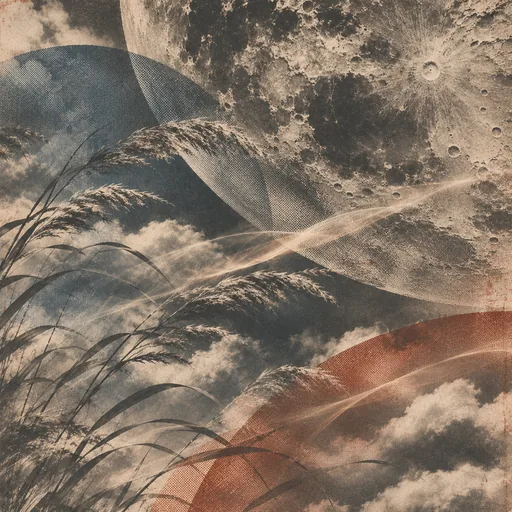
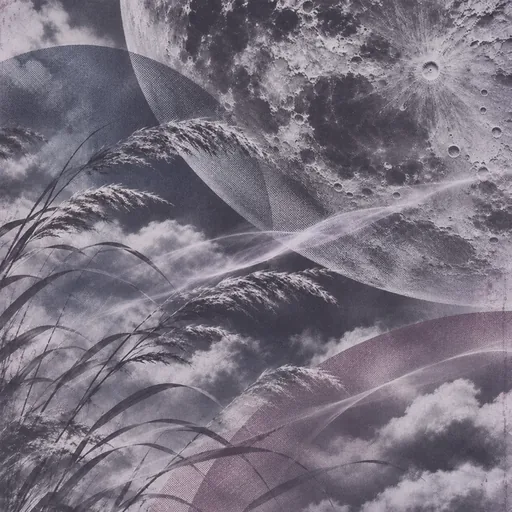
Vary palettes of five archival cover prints

diff --git a/music_analysis/web/index.html b/music_analysis/web/index.html
@@ -8,7 +8,7 @@
   <link rel="preload" href="/assets/InterVariable.woff2" as="font" type="font/woff2" crossorigin>
   <link rel="stylesheet" href="/assets/styles.css?v=cover-collection-17">
   <script src="/assets/i18n.js?v=culture-aesthetics-2" defer></script>
-  <script src="/assets/app.js?v=cover-collection-17" defer></script>
+  <script src="/assets/app.js?v=cover-palettes-2" defer></script>
 </head>
 <body>
   <header class="topbar">

diff --git a/music_analysis/web/app.js b/music_analysis/web/app.js
@@ -108,7 +108,7 @@ function sleeveIndex(id) {
 function sleeve(index) {
   const art = element("span", "", "sleeve");
   art.dataset.sleeve = index;
-  art.style.backgroundImage = `url("/assets/sleeves/${sleeveArt[index]}.webp")`;
+  art.style.backgroundImage = `url("/assets/sleeves/${sleeveArt[index]}.webp?v=palette-2")`;
   art.setAttribute("aria-hidden", "true");
   return art;
 }

diff --git a/docs/cover-art.md b/docs/cover-art.md
@@ -22,6 +22,8 @@
 16. **山蚀**：[17-eroded-ridges.webp](../music_analysis/web/sleeves/17-eroded-ridges.webp)
 17. **窗迹**：[18-window-afterimage.webp](../music_analysis/web/sleeves/18-window-afterimage.webp)
 
+最后五款分别采用青灰绿、海蓝、灰紫、赭红、蓝灰配暖金的克制配色，保留原有纸感与构图。
+
 ## 生成提示词
 
 以下为最终选用的提示词。文件名前缀 01–08 使用共同提示 A（06 已移除），09–10 使用共同提示 B，11–13 使用共同提示 C，14–18 使用共同提示 D；每次生成的完整提示为相应共同提示与该款题材提示两段拼接。
@@ -213,6 +215,64 @@ A richly layered but restrained full-frame mountain photogravure. Large weathere
 
 ```text
 A quiet archival double-exposure photograph of an old window and its reflected leafy branches, rendered as a tactile fine-art print. Cropped window shadows, rain-softened glass, thin plant silhouettes and a gentle warm light trace overlap across the entire square. The architecture is a photographic fragment rather than clean graphic rectangles; subtle soft-focus and imperfect ink transfer unify the organic and urban details. Palette smoke-grey, ink-black, warm cream and faint dusty copper. No readable signage, people, neon or empty wall.
+```
+
+</details>
+
+## 最后五款的配色调整
+
+使用内置 imagegen 编辑，各款以其原图为输入，只调整色彩。完整编辑提示为共同提示 E 与对应的配色提示拼接。
+
+<details>
+<summary>共同提示 E：保留构图，仅调整印刷配色</summary>
+
+```text
+Use case: precise-object-edit. EDIT THE SUPPLIED SINGLE ALBUM ARTWORK. COLOR GRADING / INK PALETTE CHANGE ONLY. Preserve the exact existing composition, framing, crop, subject silhouettes, collage layers, photographic details, paper grain, halftone-dot patterns, soft light-trace shapes, registration marks and overall contrast structure. Do not redraw, move, add or remove any subject or graphic element. Keep the same archival fine-art print sensibility and full-bleed square format. Introduce the specified distinct but restrained, desaturated pigment palette so it reads as a different color family from the current sepia/beige group. Color should be visible without becoming loud or synthetic. Maintain delicate tonal detail in both shadows and paper highlights. No new text, border, people, hands, logos, neon, rainbow effects or glossy CGI.
+```
+
+</details>
+
+<details>
+<summary>14-branch-impressions · 配色</summary>
+
+```text
+Shift this woodland and branching print toward cool sage and eucalyptus green-grey: deep forest-green ink in the branches and shadows, soft sage-green midtones, pale mineral-white paper highlights, with only a tiny subdued olive undertone. Reduce the dominant golden/beige cast and rust colors. Light traces should be pale cool ivory. Calm botanical green, not saturated emerald. Preserve all original spatial details.
+```
+
+</details>
+
+<details>
+<summary>15-tidal-print · 配色</summary>
+
+```text
+Shift this seaweed, foam and coastal print toward a clear muted ocean-blue family: deep petrol-blue and indigo ink in dark shapes, slate-blue and sea-glass blue-green midtones, soft pearl-white foam and paper highlights. Keep any rusty accent extremely small and greyed. Remove the dominant sepia cast. Quiet, marine, slightly cool cyanotype-like color, not vivid tropical turquoise. Preserve the original layout exactly.
+```
+
+</details>
+
+<details>
+<summary>16-lunar-archive · 配色</summary>
+
+```text
+Shift this lunar print toward smoky violet and lilac-grey: charcoal-plum shadows, soft muted lavender-grey cloud and collage midtones, pale silver lunar highlights. Recolor the broad rusty curved impression into a subdued dusty mauve. Keep a faint cool blue undertone but make the overall family gently violet, with no dominant beige or orange. Elegant faded violet ink on pale grey paper, not bright purple. Do not alter any moon, crater, reed, cloud or curve.
+```
+
+</details>
+
+<details>
+<summary>17-eroded-ridges · 配色</summary>
+
+```text
+Give this mountain print a slightly warmer, earth-red identity distinct from the others: deep charcoal-brown rock shadows, muted burnt-sienna and oxidized terracotta in the existing broad ink impressions, soft clay-grey ridges and light warm-ivory mist. Increase the restrained terracotta presence enough to be recognizable but avoid dominant yellow-beige sepia or saturated orange. Keep the photographic mountains, paper details and light-trace geometry identical.
+```
+
+</details>
+
+<details>
+<summary>18-window-afterimage · 配色</summary>
+
+```text
+Shift this old-window print to a subtle cool/warm pairing: blue-grey and desaturated midnight-navy in the architecture, reflected foliage and shadows; pale cool ivory paper and glass highlights; a small restrained amber-gold warmth in the EXISTING light traces and a few existing faded ink accents. Recolor the large rusty impressions toward muted dusty blue-grey. Overall impression should be calm blue-grey with a faint warm afterglow, not another brown sepia image. Keep every existing element in place.
 ```
 
 </details>
